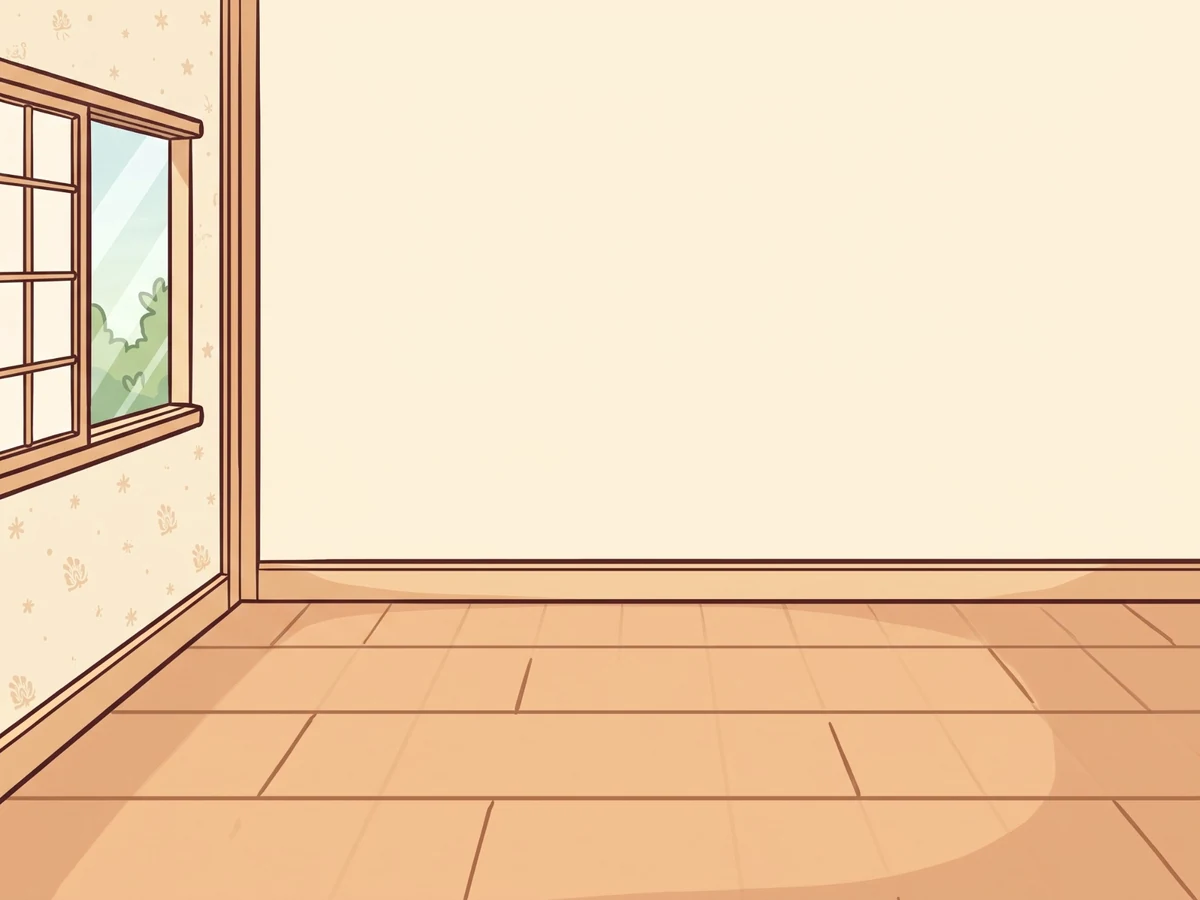
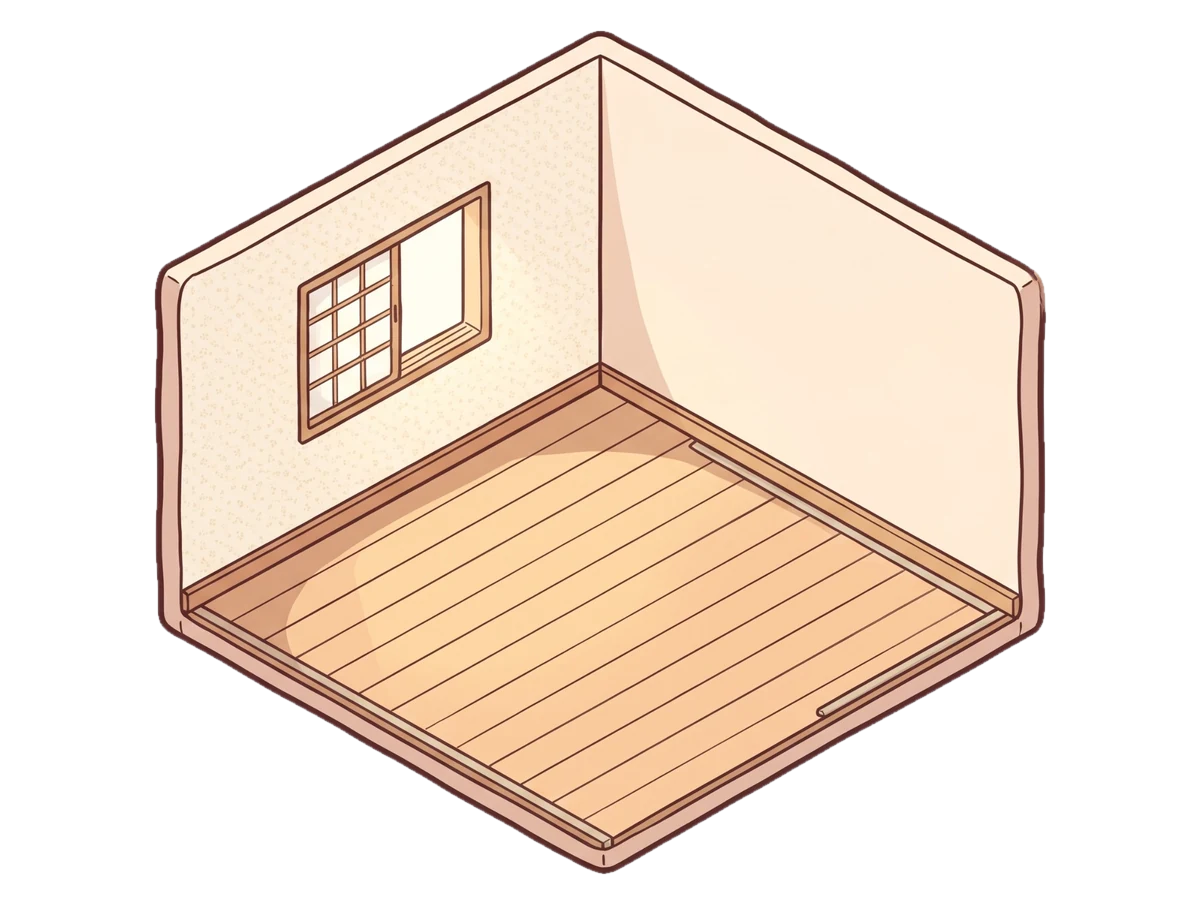
Switch home rooms to isometric cutaway pictures
New Gemini rooms match the furniture's three-quarter angle. The art
tool now makes the white around a room transparent, the stage gets a
soft background, and furniture spots are re-placed along the walls.

Claude-Session: https://claude.ai/code/session_015TUeBReSeCNS4tqX1Xf2b3

diff --git a/src/data/upgrades.js b/src/data/upgrades.js
@@ -11,36 +11,36 @@ const room = name => `img/room/${name}.webp`;
 
 export const ROOMS = [
   { id: 'bedroom', name: 'Bedroom', pic: 'room_bed', bg: room('bedroom_bg'), slots: [
-    { id: 'bed', name: 'Bed', icon: '🛏', box: { x: 22, y: 42, w: 56, h: 50 }, levels: [
+    { id: 'bed', name: 'Bed', icon: '🛏', box: { x: 42, y: 36, w: 44, h: 46 }, levels: [
       { name: 'Thin futon', cost: 0, img: room('bed_0'), size: 0.72 },
       { name: 'Thick futon', cost: 120_000, img: room('bed_1'), size: 0.8 },
       { name: 'Wooden bed', cost: 450_000, img: room('bed_2'), size: 0.78 },
       { name: 'King-size bed', cost: 1_500_000, img: room('bed_3'), size: 1 } ] },
-    { id: 'bdeco', name: 'Wall art', icon: '🖼', box: { x: 66, y: 12, w: 24, h: 30 }, levels: [
+    { id: 'bdeco', name: 'Wall art', icon: '🖼', box: { x: 62, y: 16, w: 17, h: 26 }, levels: [
       { name: 'Bare wall', cost: 0, img: null },
       { name: 'Cute poster', cost: 60_000, img: room('bdeco_1'), size: 0.8 },
       { name: 'Framed photo', cost: 250_000, img: room('bdeco_2') },
       { name: 'Ukiyo-e print', cost: 900_000, img: room('bdeco_3') } ] },
   ] },
   { id: 'office', name: 'Home office', pic: 'room_office', bg: room('office_bg'), slots: [
-    { id: 'desk', name: 'Desk', icon: '🖥', box: { x: 22, y: 30, w: 52, h: 56 }, levels: [
+    { id: 'desk', name: 'Desk', icon: '🖥', box: { x: 20, y: 38, w: 42, h: 48 }, levels: [
       { name: 'Low table', cost: 0, img: room('desk_0'), size: 0.8 },
       { name: 'Study desk', cost: 150_000, img: room('desk_1'), size: 0.78 },
       { name: 'Desk with PC', cost: 600_000, img: room('desk_2'), size: 0.88 },
       { name: 'Executive desk', cost: 2_000_000, img: room('desk_3') } ] },
-    { id: 'odeco', name: 'Corner', icon: '📚', box: { x: 72, y: 24, w: 20, h: 64 }, levels: [
+    { id: 'odeco', name: 'Corner', icon: '📚', box: { x: 60, y: 22, w: 18, h: 48 }, levels: [
       { name: 'Empty corner', cost: 0, img: null },
       { name: 'Potted plant', cost: 40_000, img: room('odeco_1') },
       { name: 'Bookshelf', cost: 300_000, img: room('odeco_2') },
       { name: 'Bonsai display', cost: 1_200_000, img: room('odeco_3') } ] },
   ] },
   { id: 'living', name: 'Living room', pic: 'room_living', bg: room('living_bg'), slots: [
-    { id: 'sofa', name: 'Seating', icon: '🛋', box: { x: 38, y: 44, w: 50, h: 46 }, levels: [
+    { id: 'sofa', name: 'Seating', icon: '🛋', box: { x: 30, y: 50, w: 44, h: 42 }, levels: [
       { name: 'Floor cushion', cost: 0, img: room('sofa_0') },
       { name: 'Kotatsu table', cost: 200_000, img: room('sofa_1') },
       { name: 'Comfy sofa', cost: 700_000, img: room('sofa_2') },
       { name: 'Leather sofa set', cost: 2_500_000, img: room('sofa_3') } ] },
-    { id: 'ldeco', name: 'Feature', icon: '🐟', box: { x: 15, y: 30, w: 21, h: 58 }, levels: [
+    { id: 'ldeco', name: 'Feature', icon: '🐟', box: { x: 55, y: 22, w: 17, h: 44 }, levels: [
       { name: 'Empty corner', cost: 0, img: null },
       { name: 'Floor lamp', cost: 80_000, img: room('ldeco_1') },
       { name: 'Big TV', cost: 400_000, img: room('ldeco_2') },

diff --git a/css/style.css b/css/style.css
@@ -200,7 +200,7 @@ button:focus-visible { outline: 2px solid var(--red); outline-offset: 2px; }
 .seg button { display: grid; justify-items: center; gap: 2px; padding: 6px 4px; border-radius: 12px; border: 2px solid var(--line); background: var(--surface); font-weight: 800; font-size: 12.5px; color: var(--muted); }
 .seg button img { width: 30px; height: 30px; object-fit: contain; }
 .seg button[aria-selected="true"] { background: var(--indigo); color: #fff; border-color: var(--gold); }
-.stage { position: relative; aspect-ratio: 4 / 3; border-radius: 16px; overflow: hidden; border: 3px solid var(--gold); background: var(--surface2); }
+.stage { position: relative; aspect-ratio: 4 / 3; border-radius: 16px; overflow: hidden; border: 3px solid var(--gold); background: radial-gradient(circle at 50% 62%, #fffaf0 0 35%, #f4e6c8); }
 .stage > .bg { position: absolute; inset: 0; width: 100%; height: 100%; object-fit: cover; }
 /* Placeholder room until the real picture exists: wallpaper on the top 55%, wooden floor below. */
 .bg-ph { position: absolute; inset: 0;

diff --git a/tools/prepare_art.py b/tools/prepare_art.py
@@ -7,7 +7,8 @@
   With 2-4 names, the picture is a 2x2 grid of items, read left to right, top to bottom
   (top-left, top-right, bottom-left, bottom-right). It's split along the white gaps between them.
 
-Room backgrounds (names ending in _bg) are cropped to 4:3 and resized to 1200x900.
+Room backgrounds (names ending in _bg) are cropped to 4:3 and resized to 1200x900; the white
+area around a cutaway room is made transparent.
 Furniture: the plain white (or light) background around the item is made transparent,
 the empty edges are trimmed, and it's resized to at most 800px. White parts *inside*
 the item's outline are kept.
@@ -30,10 +31,12 @@ def background(img):
     else:               # too tall: crop top and bottom
         nh = round(w / target)
         img = img.crop((0, (h - nh) // 2, w, (h - nh) // 2 + nh))
-    return img.convert('RGB').resize((1200, 900), Image.LANCZOS)
+    img = img.convert('RGB').resize((1200, 900), Image.LANCZOS)
+    return cut_out(img)
 
 
-def furniture(img):
+def cut_out(img):
+    """Make the light background touching the picture's edges transparent."""
     rgb = img.convert('RGB')
     w, h = rgb.size
     # Flood-fill the background from points all around the border.
@@ -53,6 +56,12 @@ def furniture(img):
     alpha = alpha.filter(ImageFilter.MinFilter(3)).filter(ImageFilter.GaussianBlur(0.8))
     out = img.convert('RGBA')
     out.putalpha(alpha)
+    return out
+
+
+def furniture(img):
+    out = cut_out(img)
+    alpha = out.getchannel('A')
     bbox = alpha.point(lambda v: 255 if v > 20 else 0).getbbox()
     if bbox:
         out = out.crop(bbox)

diff --git a/ART.md b/ART.md
@@ -20,19 +20,14 @@ or a dashed box with the item's name), so pictures can be added one at a time.
 Attach one picture from this game as a style reference, e.g. `img/a_rest.webp` or `img/ev_u_hostel.webp`.
 Generate all pictures for one room in the same Gemini chat so they match.
 
-**Camera angle matters most.** Everything is seen **from the front, slightly from above** (about 15°),
-looking straight at the back wall. No side walls, no dramatic perspective. Furniture must use the same angle.
+**Camera angle matters most.** Everything uses the same **isometric three-quarter view from the front-left,
+slightly above**: rooms are cutaway corners (left wall, right wall, diamond floor, no ceiling), and furniture
+is drawn at that same angle. Attach the beds picture (`img/room/bed_3.webp`) as the angle reference.
 
 ## Room backgrounds (3 pictures) ✅ done
 
-Landscape, 4:3 (e.g. 1200×900). An **empty** room: back wall on the top ~55%, floor on the bottom ~45%.
-No furniture, no people, no text.
-
-| File | Prompt (after the style line) |
-|---|---|
-| `bedroom_bg` | Empty small Japanese bedroom seen from the front. Back wall with soft cream wallpaper and a small window on the left, light wooden floor. Keep the upper-right part of the wall plain (a picture will hang there). No furniture. 4:3. |
-| `office_bg` | Empty home office seen from the front. Back wall in pale sage green with a window in the middle-left, wooden floor. Keep the right side plain. No furniture. 4:3. |
-| `living_bg` | Empty Japanese living room seen from the front. Warm beige back wall with a large window with curtains in the middle, wooden floor with a little tatami area. Keep the left side plain. No furniture. 4:3. |
+Isometric cutaway rooms on a white background; the tool makes the white around the room transparent.
+`bedroom_bg`, `office_bg`, `living_bg` (window on the left wall, right wall kept plain).
 
 ## Furniture (6 sheets, 4 items each)
 
